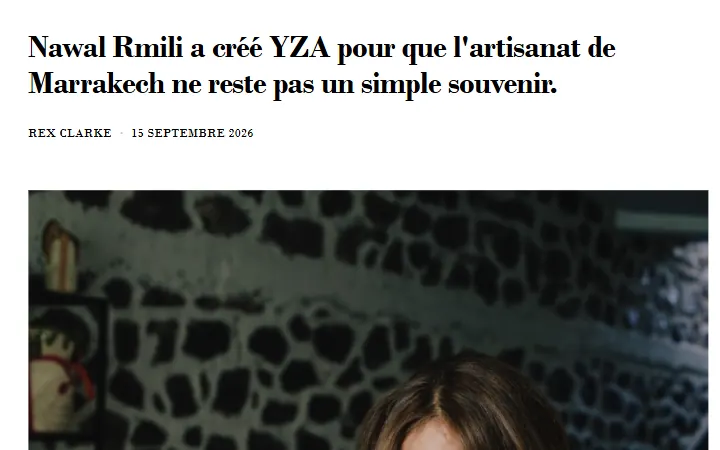
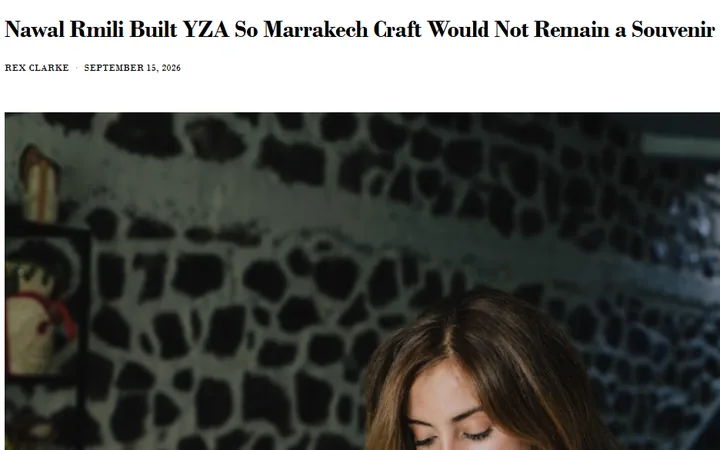
fix: use English Omiren press captures

diff --git a/press/index.html b/press/index.html
@@ -56,7 +56,7 @@
     <p class="press-item__media">OMIREN STYLES</p>
     <h2 class="press-item__title" lang="en">Nawal Rmili Built YZA So Marrakech Craft Would Not Remain a Souvenir</h2>
     <p class="press-item__meta"><span class="press-item__date">15/09/2026</span><span class="press-item__author">Rex Clarke</span></p>
-    <span class="press-item__thumb press-item__thumb--shot"><img src="assets/press/article-02.webp" alt="OMIREN STYLES — Nawal Rmili Built YZA So Marrakech Craft Would Not Remain a Souvenir" width="720" height="450" loading="lazy" decoding="async"></span>
+    <span class="press-item__thumb press-item__thumb--shot"><img src="assets/press/article-02.webp?v=20261001-en" alt="OMIREN STYLES — Nawal Rmili Built YZA So Marrakech Craft Would Not Remain a Souvenir" width="720" height="450" loading="lazy" decoding="async"></span>
     <span class="press-item__cta"><span data-lang="fr">Lire l’article</span><span data-lang="en" hidden>Read the article</span><span data-lang="es" hidden>Leer el artículo</span><span data-lang="tr" hidden>Makaleyi oku</span><span data-lang="ar" hidden>اقرئي المقال</span><svg class="press-item__arrow" viewBox="0 0 12 12" aria-hidden="true" focusable="false"><path d="M3 9 9 3M4.5 3H9v4.5" fill="none" stroke="currentColor" stroke-width="1"/></svg><span class="sr-only"><span data-lang="fr">(nouvel onglet)</span><span data-lang="en" hidden>(opens in a new tab)</span><span data-lang="es" hidden>(nueva pestaña)</span><span data-lang="tr" hidden>(yeni sekme)</span><span data-lang="ar" hidden>(علامة تبويب جديدة)</span></span></span>
    </a>
   </article>
@@ -74,7 +74,7 @@
     <p class="press-item__media">OMIREN STYLES</p>
     <h2 class="press-item__title" lang="en">YZA Makes Its TRANOÏ Paris Debut With a Marrakech Fruit-Market Accessories Collection</h2>
     <p class="press-item__meta"><span class="press-item__date">09/09/2026</span><span class="press-item__author">Rex Clarke</span></p>
-    <span class="press-item__thumb press-item__thumb--shot"><img src="assets/press/article-04.webp" alt="OMIREN STYLES — YZA Makes Its TRANOÏ Paris Debut With a Marrakech Fruit-Market Accessories Collection" width="720" height="450" loading="lazy" decoding="async"></span>
+    <span class="press-item__thumb press-item__thumb--shot"><img src="assets/press/article-04.webp?v=20261001-en" alt="OMIREN STYLES — YZA Makes Its TRANOÏ Paris Debut With a Marrakech Fruit-Market Accessories Collection" width="720" height="450" loading="lazy" decoding="async"></span>
     <span class="press-item__cta"><span data-lang="fr">Lire l’article</span><span data-lang="en" hidden>Read the article</span><span data-lang="es" hidden>Leer el artículo</span><span data-lang="tr" hidden>Makaleyi oku</span><span data-lang="ar" hidden>اقرئي المقال</span><svg class="press-item__arrow" viewBox="0 0 12 12" aria-hidden="true" focusable="false"><path d="M3 9 9 3M4.5 3H9v4.5" fill="none" stroke="currentColor" stroke-width="1"/></svg><span class="sr-only"><span data-lang="fr">(nouvel onglet)</span><span data-lang="en" hidden>(opens in a new tab)</span><span data-lang="es" hidden>(nueva pestaña)</span><span data-lang="tr" hidden>(yeni sekme)</span><span data-lang="ar" hidden>(علامة تبويب جديدة)</span></span></span>
    </a>
   </article>
